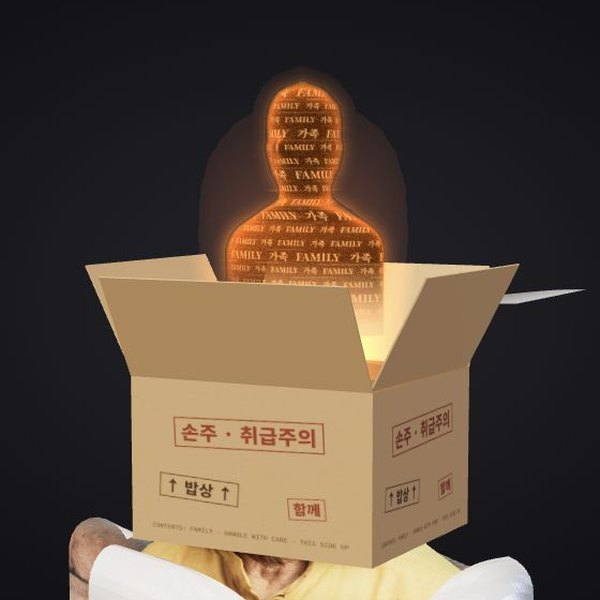
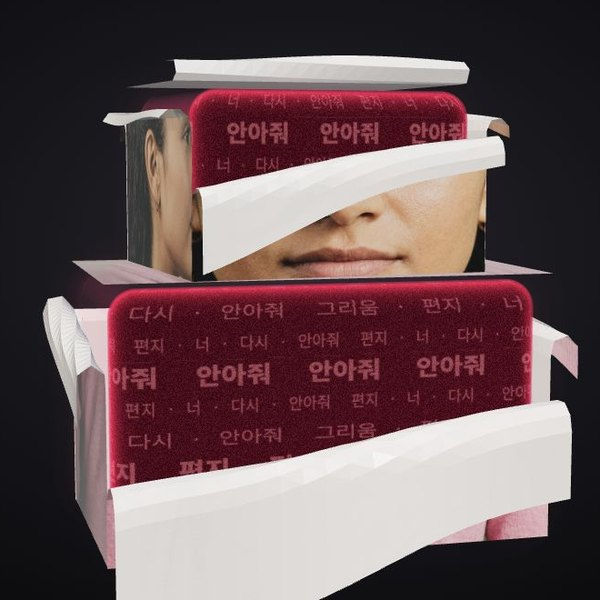
day-261119 머리·몸 상자 쌓기, 포장지 밑은 빛 상자와 신념 단어

diff --git a/day-261119/main.js b/day-261119/main.js
@@ -1,8 +1,9 @@
 import * as THREE from 'three';
 import { RoomEnvironment } from 'three/addons/environments/RoomEnvironment.js';
+import { RoundedBoxGeometry } from 'three/addons/geometries/RoundedBoxGeometry.js';
 import { PROFILE } from './bust.js?v=1';
 
-const VER = 13;
+const VER = 14;
 const PEOPLE = [
   { k: 'kr', glow: '#3f86ff', who: '준호 · 32 · 서울', words: ['승진', '인정', '연봉', '더 빨리', '증명'], core: '성공', en: 'SUCCESS' },
   { k: 'wa', glow: '#ff5a2a', who: '코피 · 64 · 아크라', words: ['이름', '약속', '가문', '부끄럼 없이', '지킨다'], core: '명예', en: 'HONOR' },
@@ -22,7 +23,6 @@ const camera = new THREE.PerspectiveCamera(28, 1, .1, 50);
 const key = new THREE.DirectionalLight(0xfff2e0, 2.2); key.position.set(-3, 4, 5); scene.add(key);
 const rim = new THREE.DirectionalLight(0x9fb6ff, 1.2); rim.position.set(4, 1, -3); scene.add(rim);
 scene.add(new THREE.AmbientLight(0xffffff, .25));
-const glow = new THREE.PointLight(0xffd9a0, 0, 4, 1.5); scene.add(glow);
 const head = new THREE.Group(); scene.add(head);
 
 let baseDist = 8;
@@ -59,27 +59,8 @@ function paperMat(map, opts = {}) {
   return m;
 }
 
-const HT = 3.6, WD = HT * 672 / 900;
-const S = THREE.MathUtils.smoothstep;
-function shape(prof, inset) {
-  const N = prof.length;
-  let neck = Infinity, neckI = 0;
-  for (let i = Math.floor(N * .2); i < Math.floor(N * .7); i++) if (prof[i][2] < neck) { neck = prof[i][2]; neckI = i; }
-  const top = prof[0][0], chin = prof[neckI][0];
-  const Y = yv => (HT / 2 - yv * HT) * (inset < 1 ? .955 : 1) - (inset < 1 ? .03 : 0);
-  const ring = prof.map(([yv, cx, hw], i) => {
-    const w0 = Math.max(.03, hw * WD), f = THREE.MathUtils.lerp(1.12, .42, S(hw, neck * 1.3, neck * 2.6));
-    return { y: Y(yv), c: (cx - .5) * WD, w0, w: w0 * inset, d: w0 * f * inset, v: 1 - yv, ht: i < neckI ? (yv - top) / (chin - top) : -1 };
-  });
-  const at = (r, ph) => {
-    const R = ring[r], sn = Math.sin(ph), cs = Math.cos(ph);
-    let z = R.d * cs;
-    if (R.ht > 0) z += .17 * inset * Math.exp(-(((R.ht - .6) / .1) ** 2)) * Math.max(0, cs) ** 30;
-    return [new THREE.Vector3(R.c + R.w * sn, R.y, z), sn, cs];
-  };
-  return { N, ring, at, neckI };
-}
 
+const S = THREE.MathUtils.smoothstep;
 const ROWS = 6, RH = .17, TW = 2048 / 160 * RH;
 function textTex(lines, serif) {
   const c = document.createElement('canvas'); c.width = 2048; c.height = ROWS * 160; const g = c.getContext('2d');
@@ -114,36 +95,6 @@ void main() {
   gl_FragColor = vec4(col + grain * .11, (1. - smoothstep(.45, 1., fr)) * fade);
 }`;
 
-function buildFigure(prof, P) {
-  const { N, ring, at } = shape(prof, .84), FS = 72, W = FS + 1;
-  const pos = [], uv = [], idx = [];
-  for (let r = 0; r < N; r++) {
-    const row = Array.from({ length: W }, (_, c) => at(r, Math.PI + c / FS * Math.PI * 2)[0]);
-    const cum = [0]; for (let c = 1; c < W; c++) cum.push(cum[c - 1] + row[c].distanceTo(row[c - 1]));
-    row.forEach((p, c) => { pos.push(p.x, p.y, p.z); uv.push(cum[c] - cum[FS] / 2, p.y); });
-  }
-  for (let r = 0; r < N - 1; r++) for (let c = 0; c < FS; c++) { const a = r * W + c, b = a + 1, d = a + W, e = d + 1; idx.push(a, d, b, b, d, e); }
-  const top = N * W; pos.push(ring[0].c, ring[0].y + .02, 0); uv.push(0, ring[0].y);
-  for (let c = 0; c < FS; c++) idx.push(top, c, c + 1);
-  const g = new THREE.BufferGeometry();
-  g.setAttribute('position', new THREE.Float32BufferAttribute(pos, 3)); g.setAttribute('uv', new THREE.Float32BufferAttribute(uv, 2));
-  g.setIndex(idx); g.computeVertexNormals();
-  const col = new THREE.Color(P.glow), u = {
-    uTex: { value: textTex(r => (r % 3 === 1 ? P.words[r % P.words.length] : P.words.slice(r % 2).join('   ·   ')) + '      ') },
-    uCore: { value: textTex(r => `${P.core}   ${P.en}   `, true) },
-    uCol: { value: col }, uDeep: { value: col.clone().multiplyScalar(.16) }, uHi: { value: col.clone().lerp(new THREE.Color('#fffbe8'), .55) },
-    uTime: { value: 0 }, uFlow: { value: 0 }, uEnd: { value: 0 }, uBottom: { value: ring[N - 1].y }, uShell: { value: 0 }, uGrow: { value: 0 }, uAlpha: { value: 1 }, uReveal: { value: 0 },
-  };
-  const grp = new THREE.Group();
-  const body = new THREE.Mesh(g, new THREE.ShaderMaterial({ uniforms: u, vertexShader: FIG_VS, fragmentShader: FIG_FS, transparent: true }));
-  body.renderOrder = 1; grp.add(body);
-  [[.04, .45], [.1, .3], [.18, .2]].forEach(([grow, a], i) => {
-    const su = { ...u, uShell: { value: 1 }, uGrow: { value: grow }, uAlpha: { value: a } };
-    const m = new THREE.Mesh(g, new THREE.ShaderMaterial({ uniforms: su, vertexShader: FIG_VS, fragmentShader: FIG_FS, transparent: true, depthWrite: false, side: THREE.BackSide }));
-    m.renderOrder = 2 + i; grp.add(m);
-  });
-  return { grp, body, u, flow: 0, boost: 0 };
-}
 
 let ac = null, noiseBuf = null, lastSnd = 0;
 function rustle(gain = .5) {
@@ -157,45 +108,6 @@ function rustle(gain = .5) {
 }
 
 const V = (x, y, z) => new THREE.Vector3(x, y, z);
-const BW = 1.7, BH = 1.05, BD = 1.45, FIG_S = .5;
-
-function kraftTex(P) {
-  const c = document.createElement('canvas'); c.width = 1024; c.height = 768; const g = c.getContext('2d');
-  g.fillStyle = '#b68a5c'; g.fillRect(0, 0, 1024, 768);
-  for (let i = 0; i < 2600; i++) { g.fillStyle = `rgba(${Math.random() < .5 ? '80,52,28' : '230,200,160'},${.05 + Math.random() * .08})`; g.fillRect(Math.random() * 1024, Math.random() * 768, 1 + Math.random() * 30, 1); }
-  g.textAlign = 'center'; g.textBaseline = 'middle';
-  const stamp = (txt, x, y, sz, rot, col) => {
-    g.save(); g.translate(x, y); g.rotate(rot); g.font = `900 ${sz}px 'Noto Sans KR'`; g.globalAlpha = .78; g.fillStyle = col; g.fillText(txt, 0, 0);
-    const w = g.measureText(txt).width; g.strokeStyle = col; g.lineWidth = sz * .07; g.strokeRect(-w / 2 - sz * .3, -sz * .75, w + sz * .6, sz * 1.5); g.restore();
-  };
-  stamp(`${P.words[0]} · 취급주의`, 512, 230, 88, -.04, '#7a1f12');
-  stamp(`↑ ${P.words[1]} ↑`, 300, 500, 70, .05, '#2b1d12');
-  stamp(P.words[3], 760, 540, 62, -.08, '#7a1f12');
-  g.globalAlpha = .6; g.font = `500 28px 'IBM Plex Mono', 'Noto Sans KR'`; g.fillStyle = '#2b1d12';
-  g.fillText(`CONTENTS: ${P.en} · HANDLE WITH CARE · THIS SIDE UP`, 512, 690);
-  const t = new THREE.CanvasTexture(c); t.colorSpace = THREE.SRGBColorSpace; t.anisotropy = 8; return t;
-}
-function kraftMat(map) {
-  const m = new THREE.MeshStandardMaterial({ map, roughness: .92, side: THREE.DoubleSide, bumpMap: CRINKLE, bumpScale: .25 });
-  m.onBeforeCompile = s => { s.fragmentShader = s.fragmentShader.replace('#include <map_fragment>', `#include <map_fragment>
-    if (!gl_FrontFacing) diffuseColor.rgb *= .35;`); };
-  return m;
-}
-
-function buildBody(prof, map) {
-  const { N, ring, at, neckI } = shape(prof, 1), FS = 48, W = FS + 1, pos = [], uv = [], idx = [];
-  let sh = neckI; while (sh < N - 1 && prof[sh][2] < prof[neckI][2] * 1.5) sh++;
-  const r0 = Math.max(0, sh - 3);
-  for (let r = r0; r < N; r++) for (let c = 0; c < W; c++) {
-    const R = ring[r], [p, sn] = at(r, c / FS * Math.PI * 2); pos.push(p.x, p.y, p.z); uv.push(.5 + (R.c + R.w0 * sn) / WD, R.v);
-  }
-  for (let r = 0; r < N - r0 - 1; r++) for (let c = 0; c < FS; c++) { const a = r * W + c; idx.push(a, a + W, a + 1, a + 1, a + W, a + W + 1); }
-  const g = new THREE.BufferGeometry();
-  g.setAttribute('position', new THREE.Float32BufferAttribute(pos, 3)); g.setAttribute('uv', new THREE.Float32BufferAttribute(uv, 2));
-  g.setIndex(idx); g.computeVertexNormals();
-  return { mesh: new THREE.Mesh(g, new THREE.MeshStandardMaterial({ map, roughness: .78 })), neckY: ring[sh].y, neckC: ring[sh].c };
-}
-
 function buildPanel(map, O, A, Dv, Nv, Wa, Lp, o = {}) {
   const GA = 20, GD = 16, ad = [], uv = [], idx = [];
   const [v0, v1] = o.vr || [0, 1];
@@ -230,62 +142,108 @@ function shapePanel(pn, time) {
   pn.mesh.geometry.attributes.position.needsUpdate = true; pn.mesh.geometry.computeBoundingSphere();
 }
 
-const BEAM_FS = `uniform vec3 uCol; uniform float uA; varying vec2 vUv; varying vec3 vN, vV; void main() { float f = pow(abs(dot(normalize(vN), normalize(vV))), 2.); gl_FragColor = vec4(uCol, pow(1. - vUv.y, 2.2) * uA * f); }`;
-const BEAM_VS = `varying vec2 vUv; varying vec3 vN, vV; void main() { vUv = uv; vec4 mv = modelViewMatrix * vec4(position, 1.); vN = normalMatrix * normal; vV = -mv.xyz; gl_Position = projectionMatrix * mv; }`;
+const HB = { w: 1.7, h: 1.05, d: 1.45 }, BB = { w: 2.5, h: 1.5, d: 1.55 }, BASE = -1.4;
 
-function buildBox(P, tex) {
-  const grp = new THREE.Group(), km = kraftMat(kraftTex(P)), plain = kraftMat(null);
-  plain.color.set('#b68a5c');
-  const wall = (w, pos, ry) => { const m = new THREE.Mesh(new THREE.PlaneGeometry(w, BH), km); m.position.copy(pos); m.rotation.y = ry; grp.add(m); };
-  wall(BW, V(0, BH / 2, BD / 2), 0); wall(BW, V(0, BH / 2, -BD / 2), Math.PI); wall(BD, V(BW / 2, BH / 2, 0), Math.PI / 2); wall(BD, V(-BW / 2, BH / 2, 0), -Math.PI / 2);
-  const floor = new THREE.Mesh(new THREE.PlaneGeometry(BW, BD), plain); floor.rotation.x = -Math.PI / 2; floor.position.y = .01; grp.add(floor);
-  const flaps = [];
-  const flap = (hinge, w, d, off, axis, sign, dy, delay) => {
-    const piv = new THREE.Group(); piv.position.copy(hinge); grp.add(piv);
-    const m = new THREE.Mesh(new THREE.BoxGeometry(w, .012, d), plain); m.position.copy(off).setY(dy); piv.add(m);
-    flaps.push({ piv, axis, sign, a: 0, delay });
+function crop(img, x0, y0, x1, y1, mirror) {
+  const c = document.createElement('canvas'); c.width = 768; c.height = Math.round(768 * (y1 - y0) / (x1 - x0) * img.height / img.width) || 512; const g = c.getContext('2d');
+  if (mirror) { g.translate(c.width, 0); g.scale(-1, 1); }
+  g.drawImage(img, x0 * img.width, y0 * img.height, (x1 - x0) * img.width, (y1 - y0) * img.height, 0, 0, c.width, c.height);
+  const t = new THREE.CanvasTexture(c); t.colorSpace = THREE.SRGBColorSpace; t.anisotropy = 8; return t;
+}
+function bodyTex(img, prof) {
+  const N = prof.length; let neck = Math.floor(N * .2);
+  for (let i = neck; i < Math.floor(N * .7); i++) if (prof[i][2] < prof[neck][2]) neck = i;
+  let sh = neck; while (sh < N - 1 && prof[sh][2] < prof[neck][2] * 1.5) sh++;
+  const [yb, cx, hb] = prof[N - 1], ys = prof[sh][0];
+  return {
+    front: crop(img, cx - hb * .9, ys + .03, cx + hb * .9, yb),
+    side: crop(img, cx + hb * .55, ys + .1, cx + hb * .92, yb),
+    sideL: crop(img, cx - hb * .92, ys + .1, cx - hb * .55, yb, true),
+    back: crop(img, cx - hb * .5, ys + .2, cx + hb * .5, yb),
+    top: crop(img, cx - hb * .9, ys - .02, cx + hb * .9, ys + .16),
   };
-  flap(V(0, BH, BD / 2), BW, BD / 2, V(0, 0, -BD / 4), 'x', 1, -.004, 0);
-  flap(V(0, BH, -BD / 2), BW, BD / 2, V(0, 0, BD / 4), 'x', -1, -.004, .15);
-  flap(V(BW / 2, BH, 0), BW * .45, BD, V(-BW * .225, 0, 0), 'z', -1, -.018, .45);
-  flap(V(-BW / 2, BH, 0), BW * .45, BD, V(BW * .225, 0, 0), 'z', 1, -.018, .6);
-  const T = tex, X = V(1, 0, 0), Y = V(0, 1, 0), Z = V(0, 0, 1);
-  const panels = [
-    buildPanel(T.front, V(0, 0, BD / 2), X, Y, Z, BW + .02, BH + .01),
-    buildPanel(T.side, V(BW / 2, 0, 0), Z.clone().negate(), Y, X, BD + .02, BH + .01),
-    buildPanel(T.side, V(-BW / 2, 0, 0), Z, Y, X.clone().negate(), BD + .02, BH + .01, { mirror: true }),
-    buildPanel(T.top, V(0, 0, -BD / 2), X.clone().negate(), Y, Z.clone().negate(), BW + .02, BH + .01, { vr: [.45, 1] }),
-    buildPanel(T.top, V(0, BH, -BD / 2), X, Z, Y, BW + .02, BD + .02, { flipV: true, lift: .012, rmax: .1 }),
-  ];
-  panels.forEach(pn => grp.add(pn.mesh));
-  const beamU = { uCol: { value: new THREE.Color(P.glow) }, uA: { value: 0 } };
-  const beam = new THREE.Mesh(new THREE.CylinderGeometry(1.05, .62, 2.6, 40, 1, true), new THREE.ShaderMaterial({ uniforms: beamU, vertexShader: BEAM_VS, fragmentShader: BEAM_FS, transparent: true, depthWrite: false, blending: THREE.AdditiveBlending, side: THREE.DoubleSide }));
-  beam.position.y = BH + 1.3; beam.renderOrder = 6; grp.add(beam);
-  return { grp, flaps, panels, beamU };
 }
 
-let world = null, box = null, fig = null, cur = null, ending = 0;
+function wrap(B, T, o = {}) {
+  const { w, h, d } = B, X = V(1, 0, 0), Y = V(0, 1, 0), Z = V(0, 0, 1), n = v => v.clone().negate();
+  const ps = [
+    buildPanel(T.front, V(0, 0, d / 2), X, Y, Z, w + .02, h + .01),
+    buildPanel(T.side, V(w / 2, 0, 0), n(Z), Y, X, d + .02, h + .01),
+    buildPanel(T.sideL || T.side, V(-w / 2, 0, 0), Z, Y, n(X), d + .02, h + .01, { mirror: !T.sideL }),
+    buildPanel(T.back, V(0, 0, -d / 2), n(X), Y, n(Z), w + .02, h + .01, T.backVr ? { vr: T.backVr } : {}),
+    buildPanel(T.top, V(0, h, -d / 2), X, Z, Y, w + .02, d + .02, { flipV: true, lift: .012, rmax: .1 }),
+  ];
+  ps[3].back = true;
+  if (o.fixedTop) ps[4].fixed = true;
+  return ps;
+}
+
+function lightBox(B, P, texs) {
+  const g = new RoundedBoxGeometry(B.w - .06, B.h - .06, B.d - .06, 5, .16), pos = g.attributes.position, uv = g.attributes.uv;
+  const per = 2 * (B.w + B.d);
+  for (let i = 0; i < pos.count; i++) {
+    const x = pos.getX(i), y = pos.getY(i), z = pos.getZ(i);
+    uv.setXY(i, Math.atan2(x / B.w, z / B.d) / (Math.PI * 2) * per, y);
+  }
+  g.translate(0, B.h / 2, 0);
+  const col = new THREE.Color(P.glow), u = {
+    uTex: { value: texs.words }, uCore: { value: texs.core },
+    uCol: { value: col }, uDeep: { value: col.clone().multiplyScalar(.16) }, uHi: { value: col.clone().lerp(new THREE.Color('#fffbe8'), .55) },
+    uTime: { value: 0 }, uFlow: { value: 0 }, uEnd: { value: 0 }, uBottom: { value: -100 }, uShell: { value: 0 }, uGrow: { value: 0 }, uAlpha: { value: 1 }, uReveal: { value: 0 },
+  };
+  const grp = new THREE.Group();
+  const body = new THREE.Mesh(g, new THREE.ShaderMaterial({ uniforms: u, vertexShader: FIG_VS, fragmentShader: FIG_FS, transparent: true }));
+  body.renderOrder = 1; grp.add(body);
+  [[.04, .45], [.1, .3], [.2, .18]].forEach(([grow, a], i) => {
+    const m = new THREE.Mesh(g, new THREE.ShaderMaterial({ uniforms: { ...u, uShell: { value: 1 }, uGrow: { value: grow }, uAlpha: { value: a } }, vertexShader: FIG_VS, fragmentShader: FIG_FS, transparent: true, depthWrite: false, side: THREE.BackSide }));
+    m.renderOrder = 2 + i; grp.add(m);
+  });
+  const lamp = new THREE.PointLight(col, 0, 5, 1.5); lamp.position.y = B.h / 2; grp.add(lamp);
+  return { grp, body, u, lamp };
+}
+
+function wordSprite(P) {
+  const c = document.createElement('canvas'); c.width = 1024; c.height = 560; const g = c.getContext('2d');
+  g.textAlign = 'center'; g.textBaseline = 'middle';
+  g.shadowColor = P.glow; g.shadowBlur = 60; g.fillStyle = '#fffaf0';
+  g.font = `900 300px 'Noto Serif KR'`; g.fillText(P.core, 512, 240); g.fillText(P.core, 512, 240);
+  g.shadowBlur = 24; g.font = `500 52px 'IBM Plex Mono'`; g.fillText(P.en.split('').join(' '), 512, 480);
+  const t = new THREE.CanvasTexture(c); t.colorSpace = THREE.SRGBColorSpace;
+  const s = new THREE.Sprite(new THREE.SpriteMaterial({ map: t, transparent: true, opacity: 0, depthWrite: false, toneMapped: false }));
+  s.renderOrder = 8; return s;
+}
+
+let world = null, boxes = [], panels = [], word = null, cur = null, ending = 0, flow = 0, boost = 0;
 const clock = new THREE.Clock();
 const ui = { people: document.getElementById('people'), who: document.getElementById('who'), cap: document.getElementById('cap') };
 const loader = new THREE.TextureLoader();
 const tex = async url => { const t = await loader.loadAsync(`${url}?v=${VER}`); t.colorSpace = THREE.SRGBColorSpace; t.anisotropy = 8; return t; };
 
 function disposeAll(o) {
-  o.traverse(m => { if (!m.isMesh) return; m.geometry.dispose(); const ms = [m.material].flat(); ms.forEach(x => { x.map?.dispose(); Object.values(x.uniforms || {}).forEach(u => u.value?.isTexture && u.value.dispose()); x.dispose(); }); });
+  o.traverse(m => { if (!m.isMesh && !m.isSprite) return; m.geometry.dispose(); [m.material].flat().forEach(x => { x.map?.dispose(); x.dispose(); }); });
 }
 
 async function load(i) {
   const P = PEOPLE[i]; cur = P; ending = 0;
   [...ui.people.children].forEach((b, j) => b.classList.toggle('on', j === i));
   ui.who.textContent = P.who; ui.cap.classList.remove('end');
-  await Promise.all([document.fonts.load(`900 100px 'Noto Serif KR'`, P.core), document.fonts.load(`900 60px 'Noto Sans KR'`, P.words.join('') + '취급주의↑'), document.fonts.load(`400 60px 'Noto Sans KR'`, P.words.join(''))]);
+  await Promise.all([document.fonts.load(`900 100px 'Noto Serif KR'`, P.core), document.fonts.load(`900 60px 'Noto Sans KR'`, P.words.join('')), document.fonts.load(`400 60px 'Noto Sans KR'`, P.words.join(''))]);
   const [bust, front, side, top] = await Promise.all([tex(`bust-${P.k}.jpg`), tex(`box-${P.k}-front.jpg`), tex(`box-${P.k}-side.jpg`), tex(`box-${P.k}-top.jpg`)]);
   if (world) { head.remove(world); disposeAll(world); }
-  world = new THREE.Group(); head.add(world);
-  const body = buildBody(PROFILE[P.k], bust); world.add(body.mesh);
-  box = buildBox(P, { front, side, top }); box.grp.position.set(body.neckC, body.neckY - .03, 0); world.add(box.grp);
-  fig = buildFigure(PROFILE[P.k], P); fig.grp.scale.setScalar(FIG_S); fig.y0 = BH - .12 - (HT / 2 * .955 - .03) * FIG_S; fig.grp.position.y = fig.y0; fig.grp.visible = false; box.grp.add(fig.grp);
-  glow.color.set(P.glow); glow.intensity = 0; glow.position.set(0, BH * .55, 0); box.grp.add(glow);
+  world = new THREE.Group(); world.position.y = BASE; head.add(world);
+  const texs = {
+    words: textTex(r => (r % 3 === 1 ? P.words[r % P.words.length] : P.words.slice(r % 2).join('   ·   ')) + '      '),
+    core: textTex(() => `${P.core}   ${P.en}   `, true),
+  };
+  const body = new THREE.Group(), hd = new THREE.Group();
+  hd.position.set(0, BB.h + .012, -.04); hd.rotation.y = .09;
+  world.add(body, hd);
+  const bp = wrap(BB, bodyTex(bust.image, PROFILE[P.k]), { fixedTop: true }), hp = wrap(HB, { front, side, top, back: top, backVr: [.45, 1] });
+  boxes = [{ grp: body, ps: bp, L: lightBox(BB, P, texs) }, { grp: hd, ps: hp, L: lightBox(HB, P, texs) }];
+  for (const b of boxes) { b.ps.forEach(pn => { pn.box = b; b.grp.add(pn.mesh); }); b.grp.add(b.L.grp); b.rev = 0; }
+  panels = [...bp, ...hp];
+  word = wordSprite(P); word.position.set(0, HB.h * .5, 0); hd.add(word);
+  flow = 0; boost = 0;
 }
 
 PEOPLE.forEach((P, i) => {
@@ -293,28 +251,30 @@ PEOPLE.forEach((P, i) => {
 });
 document.getElementById('again').onclick = () => load(PEOPLE.indexOf(cur));
 
-const peeled = () => box.panels.reduce((a, pn, i) => a + (i === 3 ? 0 : pn.p), 0) / (box.panels.length - 1);
+const live = () => panels.filter(pn => !pn.fixed && !pn.back);
+const peeled = () => { const l = live(); return l.reduce((a, pn) => a + pn.p, 0) / l.length; };
 function finale() {
   ending = clock.elapsedTime; ui.cap.classList.add('end');
-  box.panels.forEach(pn => pn.p = 1);
+  panels.forEach(pn => { pn.p = 1; pn.mesh.material.transparent = true; pn.mesh.material.depthWrite = false; pn.mesh.material.needsUpdate = true; });
 }
 
 const ray = new THREE.Raycaster(), ndc = new THREE.Vector2();
 function pick(e) {
-  if (!box) return null;
+  if (!panels.length) return null;
   ndc.set(e.clientX / innerWidth * 2 - 1, -(e.clientY / innerHeight) * 2 + 1); ray.setFromCamera(ndc, camera);
-  const objs = box.panels.map(pn => pn.mesh); if (fig.grp.visible) objs.push(fig.body);
-  const h = ray.intersectObjects(objs, false)[0];
+  const h = ray.intersectObjects([...panels.map(pn => pn.mesh), ...boxes.map(b => b.L.body)], false)[0];
   if (!h) return null;
-  return h.object === fig.body ? { stir: true } : { pn: box.panels.find(pn => pn.mesh === h.object) };
+  const pn = panels.find(q => q.mesh === h.object);
+  return pn && !pn.fixed ? { pn } : { stir: true };
 }
 function rub(hit) {
-  if (hit.stir) { fig.boost = Math.min(1.6, fig.boost + .12); return; }
-  box.panels.forEach(pn => pn.p = Math.min(1, pn.p + (pn === hit.pn ? .035 : .01))); rustle(.35);
-  if (!ending && peeled() > .62) finale();
+  if (hit.stir) { boost = Math.min(1.6, boost + .12); return; }
+  panels.forEach(pn => { if (!pn.fixed) pn.p = Math.min(1, pn.p + (pn === hit.pn ? .035 : pn.box === hit.pn.box ? .012 : .004)); });
+  rustle(.35);
+  if (!ending && peeled() > .6) finale();
 }
 
-let mode = null, lx = 0, ly = 0, yaw = -.35, pitch = .12, idle = 0, lastRub = 0;
+let mode = null, lx = 0, ly = 0, yaw = -.35, pitch = .1, idle = 0, lastRub = 0;
 cv.addEventListener('pointerdown', e => {
   cv.setPointerCapture(e.pointerId); lx = e.clientX; ly = e.clientY; idle = 0;
   const h = pick(e); mode = h ? 'peel' : 'turn'; if (h) rub(h);
@@ -332,18 +292,19 @@ renderer.setAnimationLoop(() => {
   if (!mode && idle > 1.5) yaw += (Math.sin(time * .3) * .5 - .2 - yaw) * .01;
   head.rotation.set(pitch, yaw, 0);
   head.position.y = Math.sin(time * .8) * .02;
-  if (box) {
-    const k = 1 - Math.exp(-dt * 3);
-    for (const pn of box.panels) { pn.pd += (pn.p - pn.pd) * k * (ending ? .7 : 1); if (pn.pd > .001) shapePanel(pn, time); }
-    const t = ending ? time - ending : -1, z = S(t, .6, 4.5), e = S(t, 2.2, 4.2);
-    for (const f of box.flaps) { f.a += ((ending ? S(t, 1 + f.delay, 2 + f.delay) * 2.05 : 0) - f.a) * k * 1.5; f.piv.rotation[f.axis] = f.sign * f.a; }
-    fig.grp.visible = t > 1.4;
-    fig.grp.position.y = fig.y0 + 2.1 * S(t, 1.5, 5) + .03 * Math.sin(time * 1.3) * z;
-    fig.boost *= Math.exp(-dt * 1.5); fig.flow += dt * (.01 + .06 * fig.boost);
-    fig.u.uFlow.value = fig.flow; fig.u.uTime.value = time; fig.u.uEnd.value = e; fig.u.uReveal.value = S(t, 1.6, 3);
-    box.beamU.uA.value = .5 * S(t, 1.2, 2.6) * (1 + .1 * Math.sin(time * 2.1));
-    glow.intensity = 3 * S(t, .9, 2.4) * (1 + .08 * Math.sin(time * 2.2));
-    camera.position.set(0, .9 * z, baseDist * (1 + .3 * z)); camera.lookAt(0, -.1 + 1 * z, 0);
+  if (word) {
+    const k = 1 - Math.exp(-dt * 3), t = ending ? time - ending : -1, z = S(t, .5, 4), e = S(t, 1.2, 3.2), wv = S(t, 1.6, 4.2);
+    for (const pn of panels) { pn.pd += (pn.p - pn.pd) * k * (ending ? .7 : 1); if (pn.pd > .001) shapePanel(pn, time); if (ending) { const f = S(t, pn.fixed ? .5 : 1.1, pn.fixed ? 1.8 : 2.8); pn.mesh.material.opacity = 1 - f; pn.mesh.position.y = -.35 * f * f; pn.mesh.visible = f < 1; } }
+    boost *= Math.exp(-dt * 1.5); flow += dt * (.01 + .06 * boost);
+    for (const b of boxes) {
+      const l = b.ps.filter(pn => !pn.fixed), m = l.reduce((a, pn) => a + pn.pd, 0) / l.length, u = b.L.u;
+      b.rev = Math.max(S(m, .05, .7), S(t, .3, 2));
+      u.uFlow.value = flow; u.uTime.value = time; u.uEnd.value = e; u.uReveal.value = b.rev;
+      b.L.lamp.intensity = (1.2 * b.rev + 2 * S(t, .5, 2.5)) * (1 + .08 * Math.sin(time * 2.2 + b.grp.position.y));
+    }
+    word.material.opacity = wv; word.position.y = HB.h * .5 + 1.35 * S(t, 1.4, 4.6) + .04 * Math.sin(time * 1.4) * wv;
+    const sc = 1 + .25 * wv; word.scale.set(1.9 * sc, 1.04 * sc, 1);
+    camera.position.set(0, .2 * z, baseDist * (1 + .5 * z)); camera.lookAt(0, -.12 + .4 * z, 0);
   }
   renderer.render(scene, camera);
 });

diff --git a/index.html b/index.html
@@ -452,7 +452,7 @@
     <div class="card-info">
       <div class="card-tag">day 261119 · wrapping paper</div>
       <div class="card-title">사람 포장지</div>
-      <div class="card-concept">서울·아크라·보고타·오슬로·자이푸르 다섯 사람의 머리를 얼굴이 인쇄된 포장지로 싼 상자로 바꿔 두고, 문지르면 포장지가 면마다 말려 뜯기며 속말이 찍힌 골판지 상자가 드러나고, 다 뜯으면 뚜껑이 열리며 빛나는 형상이 떠올라 각자의 신념 한 단어가 그 몸을 타고 흐른다</div>
+      <div class="card-concept">서울·아크라·보고타·오슬로·자이푸르 다섯 사람의 얼굴과 옷을 포장지로 싼 상자 두 개를 머리와 몸으로 쌓아 두고, 문지르면 포장지가 면마다 말려 뜯기며 속말이 흐르는 빛 덩어리가 드러나고, 다 뜯으면 포장지가 사라지고 각자의 신념 한 단어가 빛 위로 떠오른다</div>
       <div class="card-bottom">
         <span>2026.11.19</span>
         <span class="bookmark" aria-hidden="true"></span>

diff --git a/day-261119/index.html b/day-261119/index.html
@@ -25,6 +25,6 @@
 <nav id="people"></nav>
 <div id="cap"><span id="who"></span></div>
 <button id="again">다시 싸기</button>
-<script type="module" src="main.js?v=13"></script>
+<script type="module" src="main.js?v=14"></script>
 </body>
 </html>
